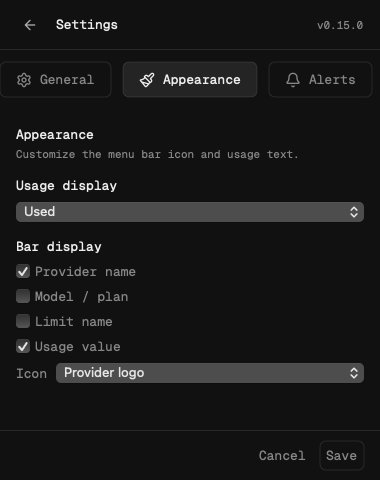
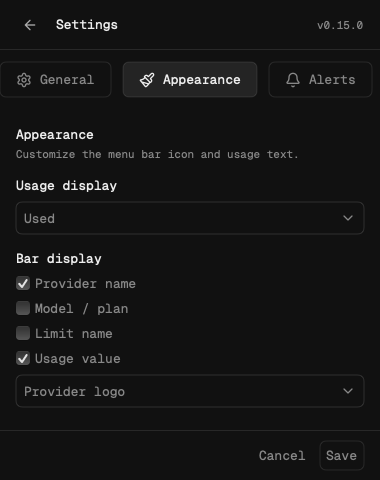
docs(settings): refresh native macOS selector previews

Changed region(s): [[0.0289, 0.5, 0.9553, 0.8438], [0.0289, 0.4062, 0.9553, 0.4688]]

diff --git a/docs/screenshots/settings-submenus/README.md b/docs/screenshots/settings-submenus/README.md
@@ -45,7 +45,7 @@ fit without vertical scrolling in these fixtures.
   desktop capture. Checkboxes and selectors share the idle outline color,
   navigation links place their arrows at the right, and the General startup
   option uses a switch beside its label.
-- Ten native `macos-*.png` files are copied unchanged from the `macos-panel-preview` artifact for
+- Eight native `macos-*.png` files are copied unchanged from the `macos-panel-preview` artifact for
   commit `e9b4fac260913b7511be134e29f2d5a012dcf567`, produced by the successful
   [native macOS job in CI run 38304713965](https://github.com/gelzinn/ai-status/actions/runs/38304713965/job/114995883059).
   The production SwiftUI/AppKit app runs on `macos-14`. Its smoke fixture uses
@@ -57,7 +57,14 @@ fit without vertical scrolling in these fixtures.
   `458388347b024e374bfa2208f7f9ed5f73a6afde` in the successful
   [native macOS job in CI run 38305454005](https://github.com/gelzinn/ai-status/actions/runs/38305454005/job/114998344429).
   It captures the actual middle scroll position and completes coverage of the
-  Guide's shortcut rows. The UI is unchanged from the earlier native captures.
+  Guide's shortcut rows. That section's UI is unchanged from the earlier native captures.
+  `macos-general.png` and `macos-appearance.png` are copied unchanged from the
+  artifact for commit `97847ae25dcfb1e038bb3c0b2fd540239c136e2b` in the successful
+  [native macOS job in CI run 38308754613](https://github.com/gelzinn/ai-status/actions/runs/38308754613/job/115009125551).
+  These captures show the full-width, 32 px dark selectors with a single chevron
+  and Geist Mono label. The active selection includes its 16 px provider logo
+  with an 8 px gap before the label. The closed face is a plain SwiftUI button;
+  its options open in a native AppKit menu.
 
 The macOS native smoke test also captures `settings-general.png`,
 `settings-appearance.png`, `settings-alerts.png`, `settings-providers.png`,
